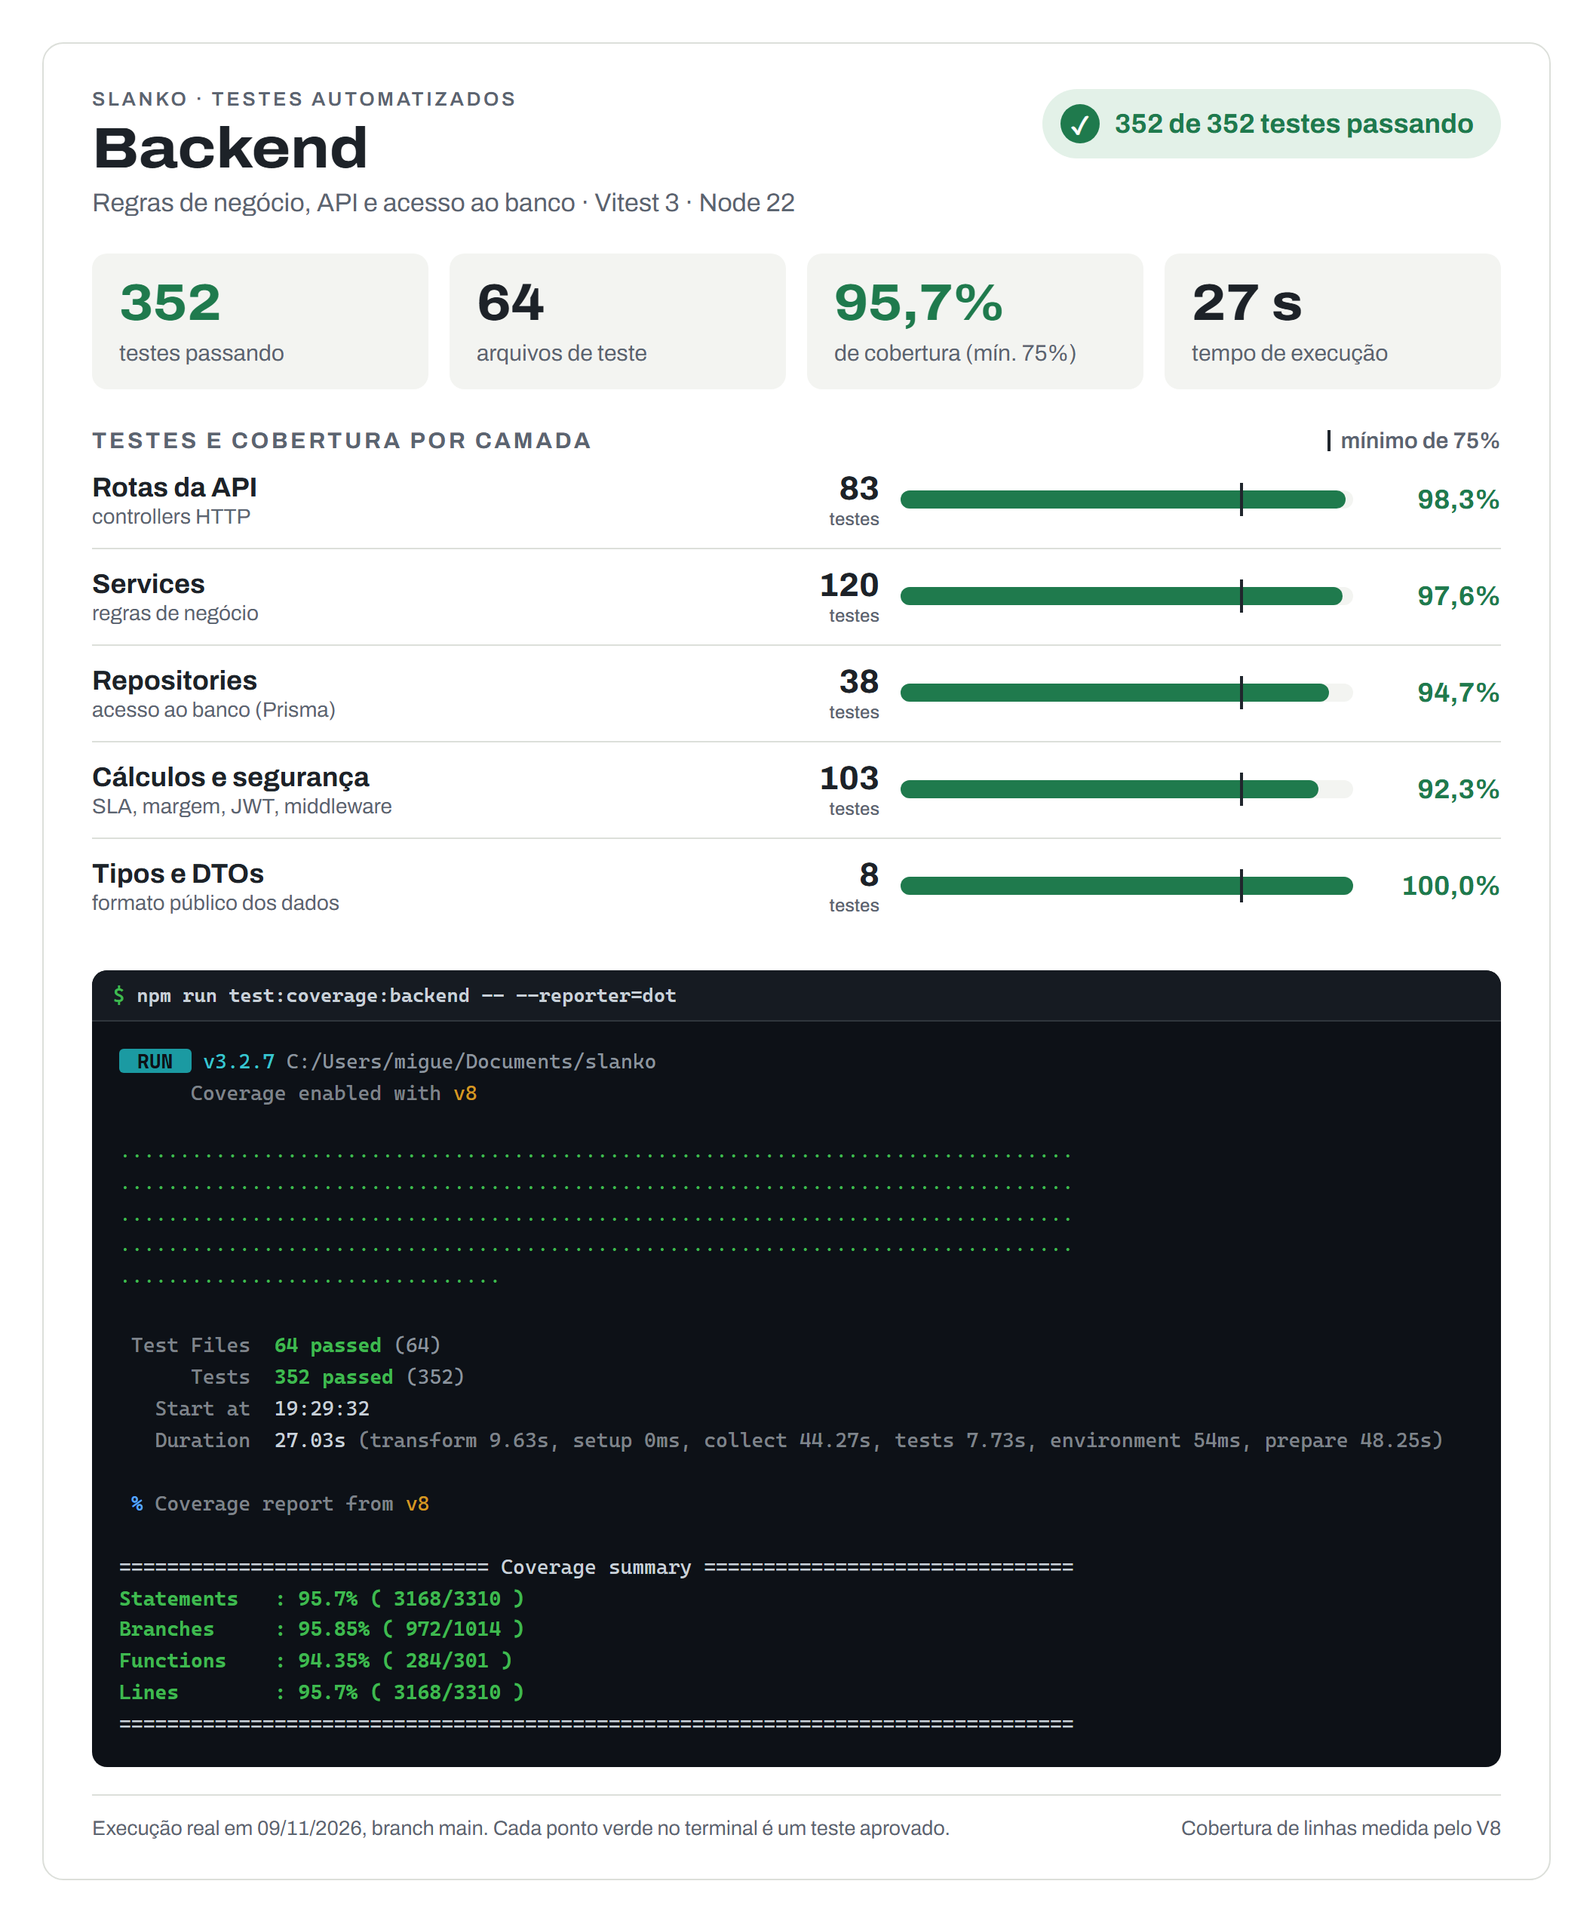
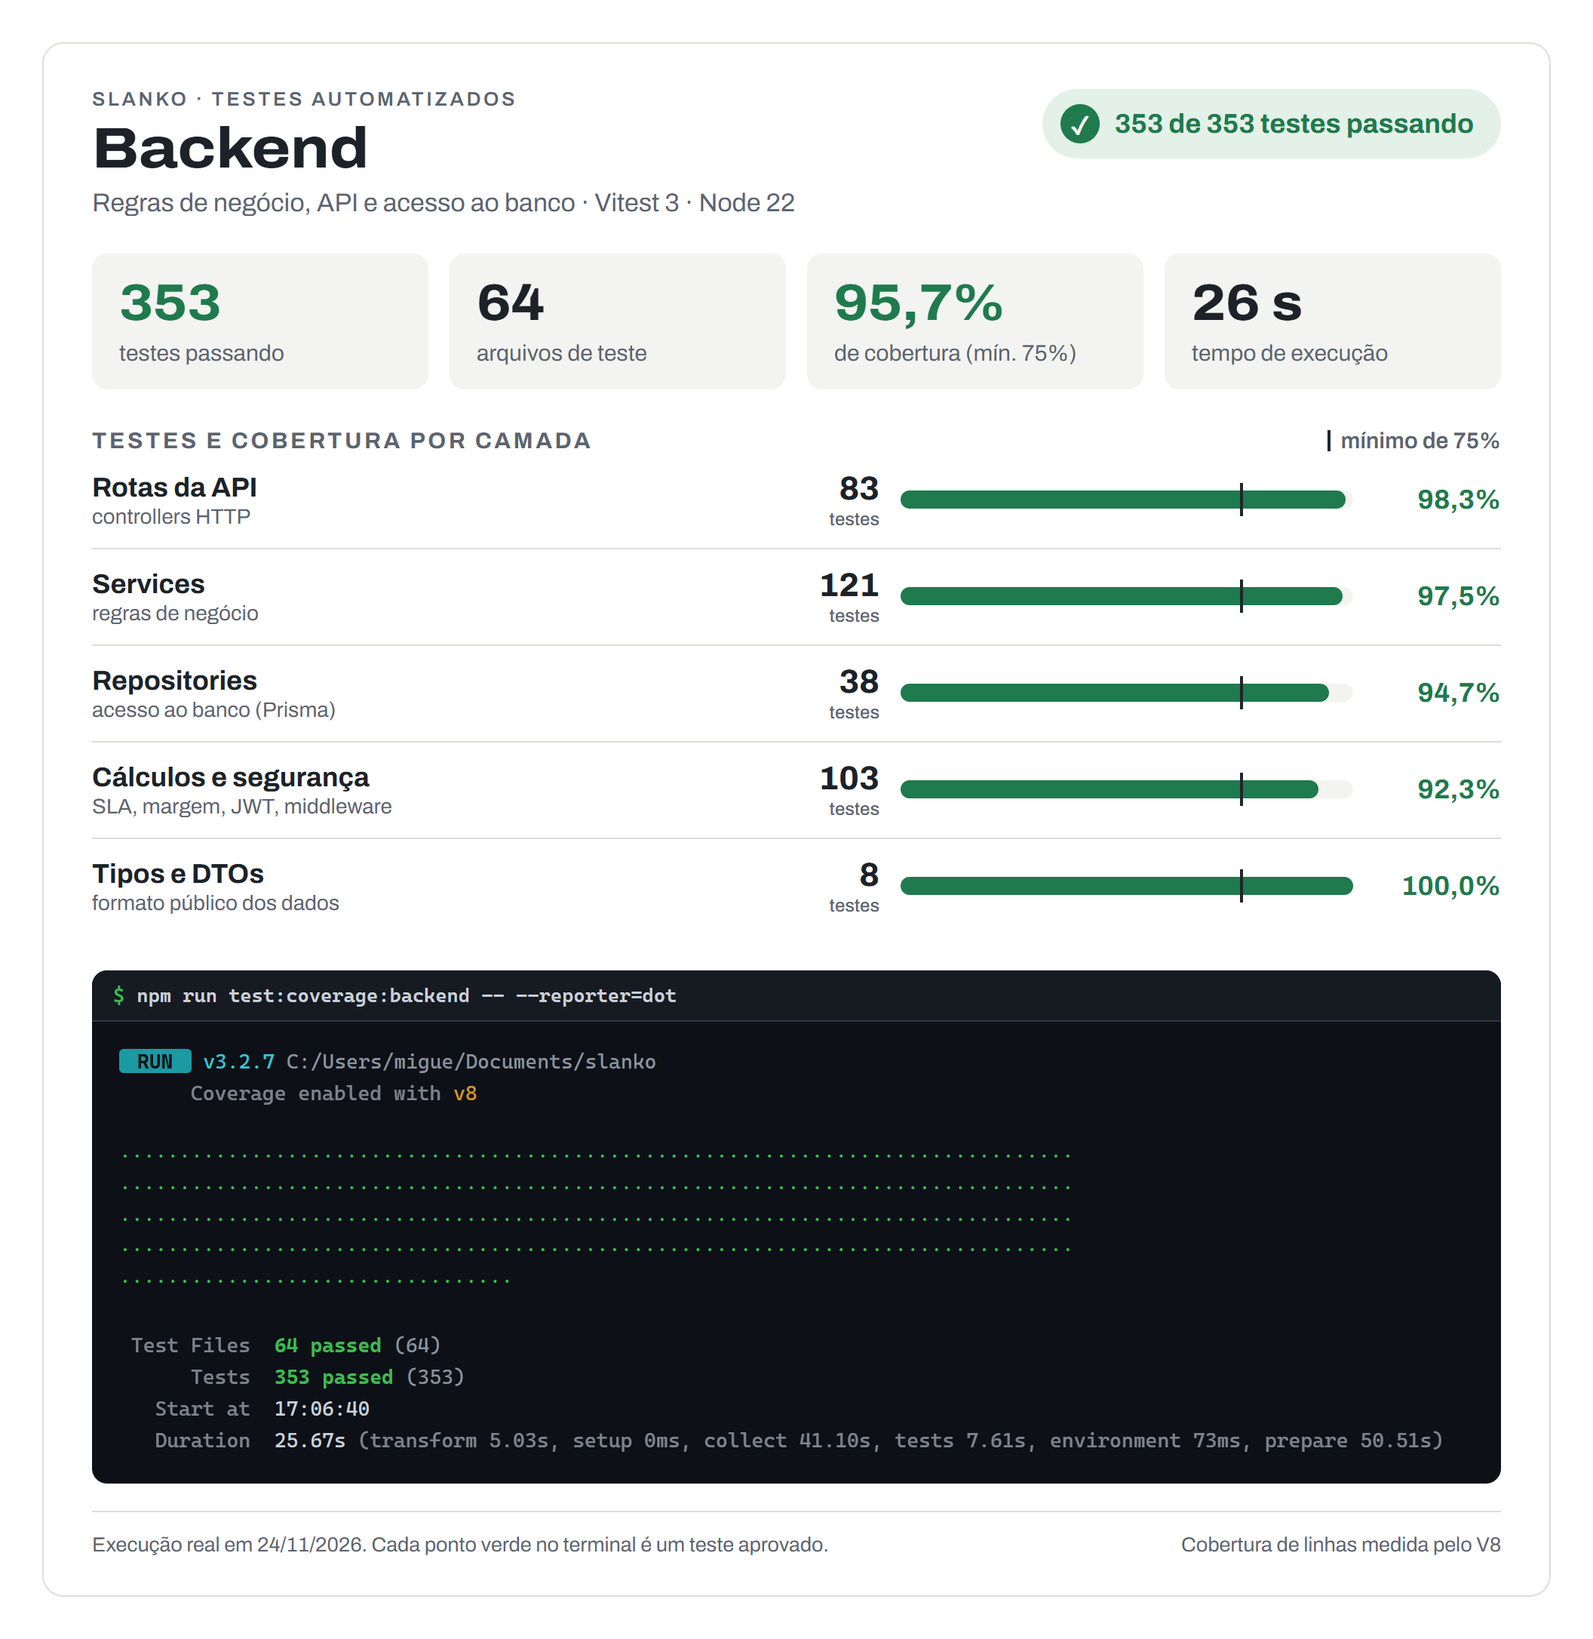
docs: align README and Wiki with the current code
Refresh test results and images, complete the repository tree, endpoint filters and Wiki page list, fix the Wiki auth, API, setup and home pages, document the inactive client rule and translate the last English comment.

diff --git a/next.config.ts b/next.config.ts
@@ -1,7 +1,7 @@
 import type { NextConfig } from "next";
 import { STATIC_SECURITY_HEADERS } from "./src/lib/http/security-headers";
 
-// Next.js configuration for the Slanko full-stack app.
+// Configuração do Next.js do Slanko (telas e API no mesmo projeto).
 // A CSP (com nonce) é aplicada no middleware; aqui ficam os headers fixos.
 const nextConfig: NextConfig = {
   reactStrictMode: true,

diff --git a/README.md b/README.md
@@ -103,19 +103,22 @@ slanko/
 ├── tests/
 │   ├── api/, services/, repositories/, lib/, types/   # unitários (backend)
 │   ├── frontend/               # interface (jsdom + Testing Library)
-│   └── integration/            # MySQL real (banco *_test)
+│   ├── integration/            # MySQL real (banco *_test)
+│   └── helpers/                # requisição autenticada e dados de teste compartilhados
 ├── prisma/                     # schema, migrations e seed de demonstração
 ├── docker/                     # Prometheus, Grafana e init do MySQL
 ├── docs/
 │   ├── RFC.md, casos-de-uso.md, arquitetura-c4.md, modelagem.md
-│   ├── assets/                 # diagramas (SVG e PNG) e paleta de cores
+│   ├── assets/                 # diagramas, paleta, telas do sistema e resultados dos testes
 │   └── wiki/                   # fonte das páginas da Wiki do GitHub
 ├── scripts/
 │   └── publish-wiki.ps1        # publica docs/wiki no GitHub Wiki
 ├── .github/workflows/ci.yml    # CI: lint, typecheck, testes, build, Sonar e integração
 ├── Dockerfile                  # imagem do slanko-app
 ├── docker-compose.yml          # slanko-db, Prometheus, Grafana e slanko-app (perfil app)
+├── .env.example                # variáveis de ambiente (copie para .env)
 ├── .nvmrc                      # versão do Node (22)
+├── sonar-project.properties    # configuração do SonarCloud
 ├── package.json
 └── vitest.config.ts, vitest.frontend.config.ts, vitest.integration.config.ts
 ```
@@ -464,19 +467,19 @@ Endpoints:
 | `GET /api/metrics` | Token `METRICS_TOKEN` (Bearer), quando definido | — (Prometheus) |
 | `POST /api/auth/login` | Pública | — (429 após 5 falhas em 15 min) |
 | `GET /api/users` | JWT | gestor ou técnico (`includeInactive=true`: gestor) |
-| `POST /api/users` | JWT | gestor only |
+| `POST /api/users` | JWT | só gestor |
 | `GET /api/users/:id` | JWT | gestor ou técnico |
-| `PUT /api/users/:id` | JWT | gestor only |
-| `GET /api/clients` | JWT | gestor only |
-| `POST /api/clients` | JWT | gestor only |
-| `GET /api/clients/:id` | JWT | gestor only |
-| `PUT /api/clients/:id` | JWT | gestor only |
-| `DELETE /api/clients/:id` | JWT | gestor only (soft delete) |
+| `PUT /api/users/:id` | JWT | só gestor |
+| `GET /api/clients` | JWT | só gestor (`includeInactive=true` traz os inativos) |
+| `POST /api/clients` | JWT | só gestor |
+| `GET /api/clients/:id` | JWT | só gestor |
+| `PUT /api/clients/:id` | JWT | só gestor |
+| `DELETE /api/clients/:id` | JWT | só gestor (desativa o cliente) |
 | `GET /api/contracts` | JWT | gestor ou técnico |
-| `POST /api/contracts` | JWT | gestor only |
+| `POST /api/contracts` | JWT | só gestor |
 | `GET /api/contracts/:id` | JWT | gestor ou técnico |
-| `PUT /api/contracts/:id` | JWT | gestor only |
-| `DELETE /api/contracts/:id` | JWT | gestor only |
+| `PUT /api/contracts/:id` | JWT | só gestor |
+| `DELETE /api/contracts/:id` | JWT | só gestor |
 | `GET /api/tickets` | JWT | gestor ou técnico |
 | `POST /api/tickets` | JWT | gestor ou técnico |
 | `GET /api/tickets/:id` | JWT | gestor ou técnico |
@@ -491,12 +494,12 @@ Endpoints:
 | `POST /api/tickets/:id/attachments` | JWT | gestor ou técnico (multipart `file`) |
 | `DELETE /api/tickets/:id/attachments/:attachmentId` | JWT | gestor ou técnico |
 | `GET /api/tickets/:id/attachments/:attachmentId/file` | JWT | gestor ou técnico |
-| `GET /api/sla/summary` | JWT | gestor only |
-| `GET /api/sla/contracts/:id` | JWT | gestor only |
-| `GET /api/profitability/summary` | JWT | gestor only |
-| `GET /api/profitability/contracts/:id` | JWT | gestor only |
+| `GET /api/sla/summary` | JWT | só gestor |
+| `GET /api/sla/contracts/:id` | JWT | só gestor |
+| `GET /api/profitability/summary` | JWT | só gestor |
+| `GET /api/profitability/contracts/:id` | JWT | só gestor |
 
-Filtros úteis: `GET /api/sla/summary` aceita `clientId`, `contractId`, `startDate`, `endDate` (YYYY-MM-DD) e `status` (`ACTIVE` padrão, `SUSPENDED`, `FINISHED` ou `ALL`; rascunhos nunca entram). O painel tem o mesmo filtro de situação. O relatório por contrato aceita `startDate` e `endDate`. Os endpoints de rentabilidade usam os mesmos filtros de período: o custo considera o `workedAt` das horas apontadas e a receita é o valor mensal proporcional aos dias de vigência dentro do período (limitado a hoje).
+Filtros úteis: `GET /api/tickets` aceita `contractId`, `status`, `assignedToId` e `priority`. `GET /api/sla/summary` aceita `clientId`, `contractId`, `startDate`, `endDate` (YYYY-MM-DD) e `status` (`ACTIVE` padrão, `SUSPENDED`, `FINISHED` ou `ALL`; rascunhos nunca entram). O painel tem o mesmo filtro de situação. O relatório por contrato aceita `startDate` e `endDate`. Os endpoints de rentabilidade aceitam os mesmos filtros (`clientId`, `contractId`, `status`, `startDate` e `endDate`): o custo considera o `workedAt` das horas apontadas e a receita é o valor mensal proporcional aos dias de vigência dentro do período (limitado a hoje).
 
 ### Testes
 
@@ -562,7 +565,7 @@ Painel do projeto (após o primeiro scan): [SonarCloud — Slanko](https://sonar
 
 ### Wiki do GitHub (RNF10)
 
-Páginas versionadas em [`docs/wiki/`](docs/wiki/) (Home, guia de execução, arquitetura, API, autenticação, casos de uso, modelagem, CI/SonarCloud).
+Páginas versionadas em [`docs/wiki/`](docs/wiki/): Home, guia de execução, documentação técnica, arquitetura, API, autenticação, casos de uso, modelagem de dados, CI/CD e qualidade, e observabilidade.
 
 Publicar na Wiki (após habilitar Wikis no repositório e criar a primeira página Home uma vez na UI):
 
@@ -609,17 +612,17 @@ Limitações conhecidas: as métricas HTTP por rota (latência) não são coleta
 
 ## Resultados dos testes
 
-Execução de 09/11/2026 na branch `main`. Todos os testes passam, e a cobertura fica acima do mínimo da linha Web Apps (RNF04: 75% no backend e 25% no frontend).
+Execução de 24/11/2026. Todos os testes passam, e a cobertura fica acima do mínimo da linha Web Apps (RNF04: 75% no backend e 25% no frontend).
 
 | Suíte | Comando | Arquivos | Testes | Cobertura de linhas | Mínimo |
 |---|---|---|---|---|---|
-| Backend | `npm run test:coverage:backend` | 64 | 352 passando | 95,7% | 75% |
-| Frontend | `npm run test:coverage:frontend` | 14 | 63 passando | 82,3% | 25% |
+| Backend | `npm run test:coverage:backend` | 64 | 353 passando | 95,7% | 75% |
+| Frontend | `npm run test:coverage:frontend` | 14 | 65 passando | 82,4% | 25% |
 | Integração (MySQL real) | `npm run test:integration` | 2 | 9 passando | não se aplica | — |
 
-![Resultado dos testes do backend: 352 testes passando e 95,7% de cobertura](docs/assets/testes-backend.png)
+![Resultado dos testes do backend: 353 testes passando e 95,7% de cobertura](docs/assets/testes-backend.png)
 
-![Resultado dos testes do frontend: 63 testes passando e 82,3% de cobertura](docs/assets/testes-frontend.png)
+![Resultado dos testes do frontend: 65 testes passando e 82,4% de cobertura](docs/assets/testes-frontend.png)
 
 As imagens mostram a saída real do Vitest com o reporter `dot` (um ponto verde por teste aprovado). Os números por camada vêm dos relatórios da própria execução (resultado dos testes em JSON e resumo de cobertura).
 
@@ -629,7 +632,7 @@ O que cada camada testa:
 * **Services:** as regras de negócio (marcos de SLA, atribuição, apontamentos, exclusão de chamados e histórico), com repositórios falsos.
 * **Repositories:** se a consulta enviada ao Prisma é a esperada.
 * **Cálculos e segurança:** SLA, receita proporcional, margem, JWT, limite de login, validação e regras de anexo, sem mocks.
-* **Telas:** login, painel, chamados, contratos e equipe renderizados com Testing Library, simulando digitação e cliques.
+* **Telas:** login, menu, painel, clientes, contratos, equipe e chamados renderizados com Testing Library, simulando digitação e cliques.
 * **Integração:** o fluxo completo até o MySQL, sem mocks (detalhes em [Testes](#testes)).
 
 Os mínimos de cobertura ficam em `vitest.config.ts` e `vitest.frontend.config.ts`: se a cobertura cair abaixo deles, o comando falha e o CI fica vermelho.
@@ -640,7 +643,7 @@ Os mínimos de cobertura ficam em `vitest.config.ts` e `vitest.frontend.config.t
 
 * **Aplicação navegável com os três fluxos de negócio:** chamados com acompanhamento de SLA, apontamento de horas e rentabilidade por contrato, em seis telas (login, painel, clientes, contratos, chamados e equipe).
 * **API com 35 endpoints**, protegida por JWT e perfil (gestor e técnico), com histórico auditável de cada chamado e anexos de imagem e vídeo.
-* **Mais de 420 testes automatizados** (backend, frontend e integração com MySQL), com cobertura de linhas de 95,7% no backend e 82,3% no frontend; os mínimos da linha Web Apps são 75% e 25%.
+* **Mais de 420 testes automatizados** (backend, frontend e integração com MySQL), com cobertura de linhas de 95,7% no backend e 82,4% no frontend; os mínimos da linha Web Apps são 75% e 25%.
 * **CI no GitHub Actions** com lint, typecheck, testes com cobertura, build, integração com MySQL e SonarCloud com Quality Gate.
 * **Segurança:** usuário conferido a cada requisição, CSP com nonce, limite de tentativas de login e anexos validados pela assinatura do arquivo.
 * **Observabilidade:** Prometheus e Grafana com métricas técnicas e de negócio (chamados, SLA e margem).

diff --git a/docs/wiki/API.md b/docs/wiki/API.md
@@ -1,6 +1,6 @@
 # API
 
-Todas as rotas (exceto health e login) exigem header:
+Todas as rotas exigem o header abaixo, exceto `health` e `login` (públicas) e `metrics` (que usa o `METRICS_TOKEN` do Prometheus):
 
 ```http
 Authorization: Bearer <jwt>
@@ -17,11 +17,11 @@ Authorization: Bearer <jwt>
 | `POST /api/users` | JWT | gestor |
 | `GET /api/users/:id` | JWT | gestor ou técnico |
 | `PUT /api/users/:id` | JWT | gestor (dados, custo/hora, situação, nova senha) |
-| `GET /api/clients` | JWT | gestor |
+| `GET /api/clients` | JWT | gestor (`includeInactive=true` traz os inativos) |
 | `POST /api/clients` | JWT | gestor |
 | `GET /api/clients/:id` | JWT | gestor |
 | `PUT /api/clients/:id` | JWT | gestor |
-| `DELETE /api/clients/:id` | JWT | gestor (soft delete) |
+| `DELETE /api/clients/:id` | JWT | gestor (desativa o cliente) |
 | `GET /api/contracts` | JWT | gestor ou técnico |
 | `POST /api/contracts` | JWT | gestor |
 | `GET /api/contracts/:id` | JWT | gestor ou técnico |
@@ -48,7 +48,8 @@ Authorization: Bearer <jwt>
 
 ## Filtros
 
-* `GET /api/sla/summary` e rentabilidade: `clientId`, `contractId`, `startDate`, `endDate` (`YYYY-MM-DD`)
+* `GET /api/tickets`: `contractId`, `status`, `assignedToId`, `priority`
+* `GET /api/sla/summary` e `GET /api/profitability/summary`: `clientId`, `contractId`, `startDate`, `endDate` (`YYYY-MM-DD`)
 * Resumos de SLA e rentabilidade: `status=ACTIVE|SUSPENDED|FINISHED|ALL` (padrão `ACTIVE`; rascunhos nunca entram)
 * Relatórios por contrato: `startDate`, `endDate` (qualquer contrato, exceto rascunho)
 * Técnico não recebe `hourlyCost` de outros usuários nem `value` de contratos
@@ -57,9 +58,9 @@ Authorization: Bearer <jwt>
 ## Login (exemplo)
 
 ```bash
-curl -X POST http://localhost:3000/api/auth/login \
+curl -k -X POST https://localhost:3000/api/auth/login \
   -H "Content-Type: application/json" \
   -d "{\"email\":\"gestor@slanko.local\",\"password\":\"Slanko@123\"}"
 ```
 
-Resposta tipica inclui `token` e `user` (`id`, `name`, `email`, `role`).
+A resposta traz o `token` e o `user` (`id`, `name`, `email`, `role`, `hourlyCost`, `active`). Com `npm run dev:http`, use `http://localhost:3000` sem o `-k`.

diff --git a/docs/wiki/Autenticacao.md b/docs/wiki/Autenticacao.md
@@ -22,13 +22,18 @@
 
 Definidas no `.env` (veja `.env.example`):
 
-* `JWT_SECRET` — chave com pelo menos 32 caracteres
-* `JWT_EXPIRES_IN` — ex.: `1h`
 * `DATABASE_URL` — conexão MySQL
+* `JWT_SECRET` — chave de assinatura do JWT (em produção, uma sequência longa e aleatória)
+* `JWT_EXPIRES_IN` — validade do token (padrão `8h`)
+* `METRICS_TOKEN` — token exigido pelo `/api/metrics` (o mesmo do `docker/prometheus/prometheus.yml`)
+* `TRUST_PROXY` — `true` só atrás de um proxy reverso confiável (o IP passa a contar no limite de login)
 
 ## Seed
 
 Após `npm run db:seed`:
 
-* `gestor@slanko.local` / `Slanko@123`
-* `tecnico@slanko.local` / `Slanko@123`
+* `gestor@slanko.local` / `Slanko@123` (gestor)
+* `tecnico@slanko.local` / `Slanko@123` (técnico responsável no chamado de exemplo)
+* `tecnico2@slanko.local` / `Slanko@123` (técnico observador)
+
+A tela de login começa com os campos vazios; no ambiente local, uma dica abaixo do formulário lembra os emails.

diff --git a/docs/modelagem.md b/docs/modelagem.md
@@ -220,6 +220,11 @@ Chave primária composta (`ticket_id`, `user_id`): a mesma pessoa não observa o
 * `TECNICO`: abertura/atualização de chamados, apontamento de horas e encerramento. Pode assumir para si um chamado sem responsável, mas não atribui a terceiros nem altera observadores (UC06). Não recebe custo/hora de colegas nem valor de contratos.
 * Chamados só podem ser abertos em contratos `ACTIVE` e vigentes na data de hoje.
 
+### Clientes e usuários inativos
+* Cliente e usuário são desativados, nunca excluídos: o histórico de chamados, horas e contratos continua valendo.
+* Cliente inativo não recebe contrato novo, mas os contratos que já existem continuam visíveis (com o nome do cliente) e editáveis, por exemplo para serem finalizados.
+* Usuário inativo perde o acesso na hora: o middleware confere o usuário no banco a cada requisição.
+
 ## Rastreabilidade
 
 | Entidade | Casos de uso | Requisitos |

diff --git a/docs/casos-de-uso.md b/docs/casos-de-uso.md
@@ -50,7 +50,7 @@ O usuário informa credenciais e recebe acesso conforme o perfil (gestor ou téc
 O gestor cadastra, edita e lista clientes atendidos pela microempresa.
 
 ### UC03 - Gerenciar contratos
-O gestor cadastra contratos vinculados a clientes, com valor, vigência e dados básicos de escopo.
+O gestor cadastra contratos vinculados a clientes, com valor, vigência e dados básicos de escopo. Contrato novo só pode ser de cliente ativo; os contratos de um cliente desativado continuam visíveis e podem ser editados, por exemplo para serem finalizados.
 
 ### UC04 - Configurar metas de SLA
 O gestor define tempos de resposta e resolução por contrato.

diff --git a/docs/wiki/Modelagem-de-Dados.md b/docs/wiki/Modelagem-de-Dados.md
@@ -15,7 +15,7 @@ Persistência em **MySQL** via **Prisma**.
 
 ## Regras relevantes
 
-* Soft delete / desativação onde aplicável (ex.: cliente)
+* Desativação no lugar de exclusão para clientes e usuários. Cliente inativo não recebe contrato novo, mas os contratos dele continuam visíveis e editáveis (por exemplo, para finalizar)
 * SLA calcula cumprimento de resposta e resolução por chamado
 * Rentabilidade: custo = soma(horas × custo/hora do apontamento); receita = valor mensal proporcional aos dias de vigência no período; margem = receita − custo
 * SLA: chamado sem resposta/resolução com prazo vencido já conta como violação

diff --git a/docs/wiki/Home.md b/docs/wiki/Home.md
@@ -39,7 +39,7 @@ Três fluxos de negócio:
 * [README do repositório](https://github.com/MiguelRBTT/slanko/blob/main/README.md)
 * [CI (GitHub Actions)](https://github.com/MiguelRBTT/slanko/actions)
 * [SonarCloud](https://sonarcloud.io/summary/new_code?id=MiguelRBTT_slanko)
-* App local: [http://localhost:3000](http://localhost:3000) (após `npm run dev`)
+* App local: [https://localhost:3000](https://localhost:3000) (após `npm run dev`; sem HTTPS, `npm run dev:http`)
 
 ## Status
 

diff --git a/docs/wiki/Guia-de-Execucao.md b/docs/wiki/Guia-de-Execucao.md
@@ -58,7 +58,8 @@ npm run db:seed
 | Email | Senha | Perfil |
 |---|---|---|
 | `gestor@slanko.local` | `Slanko@123` | GESTOR |
-| `tecnico@slanko.local` | `Slanko@123` | TECNICO |
+| `tecnico@slanko.local` | `Slanko@123` | TECNICO (responsável) |
+| `tecnico2@slanko.local` | `Slanko@123` | TECNICO (observador) |
 
 Scripts úteis:
 
